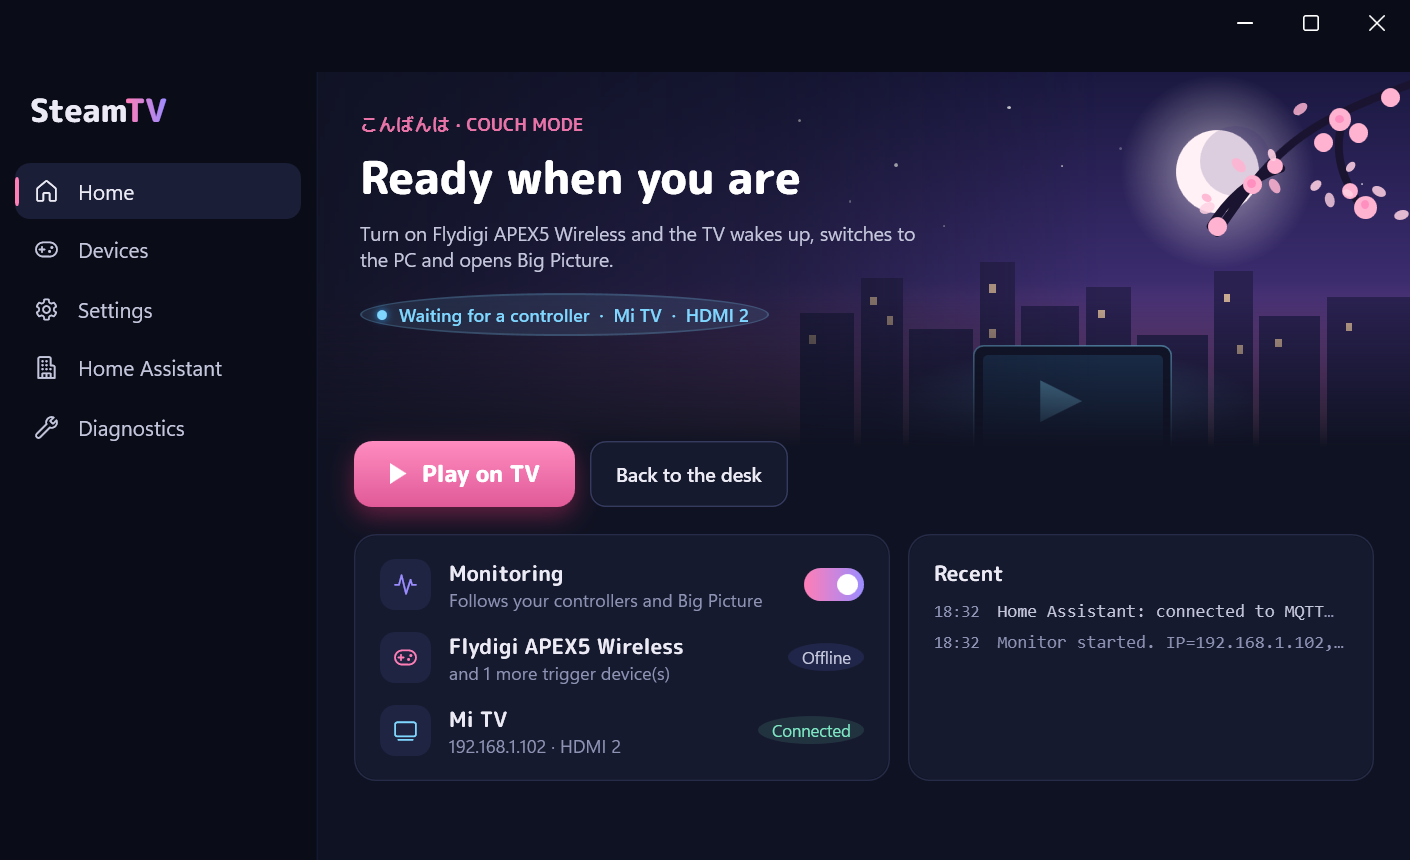
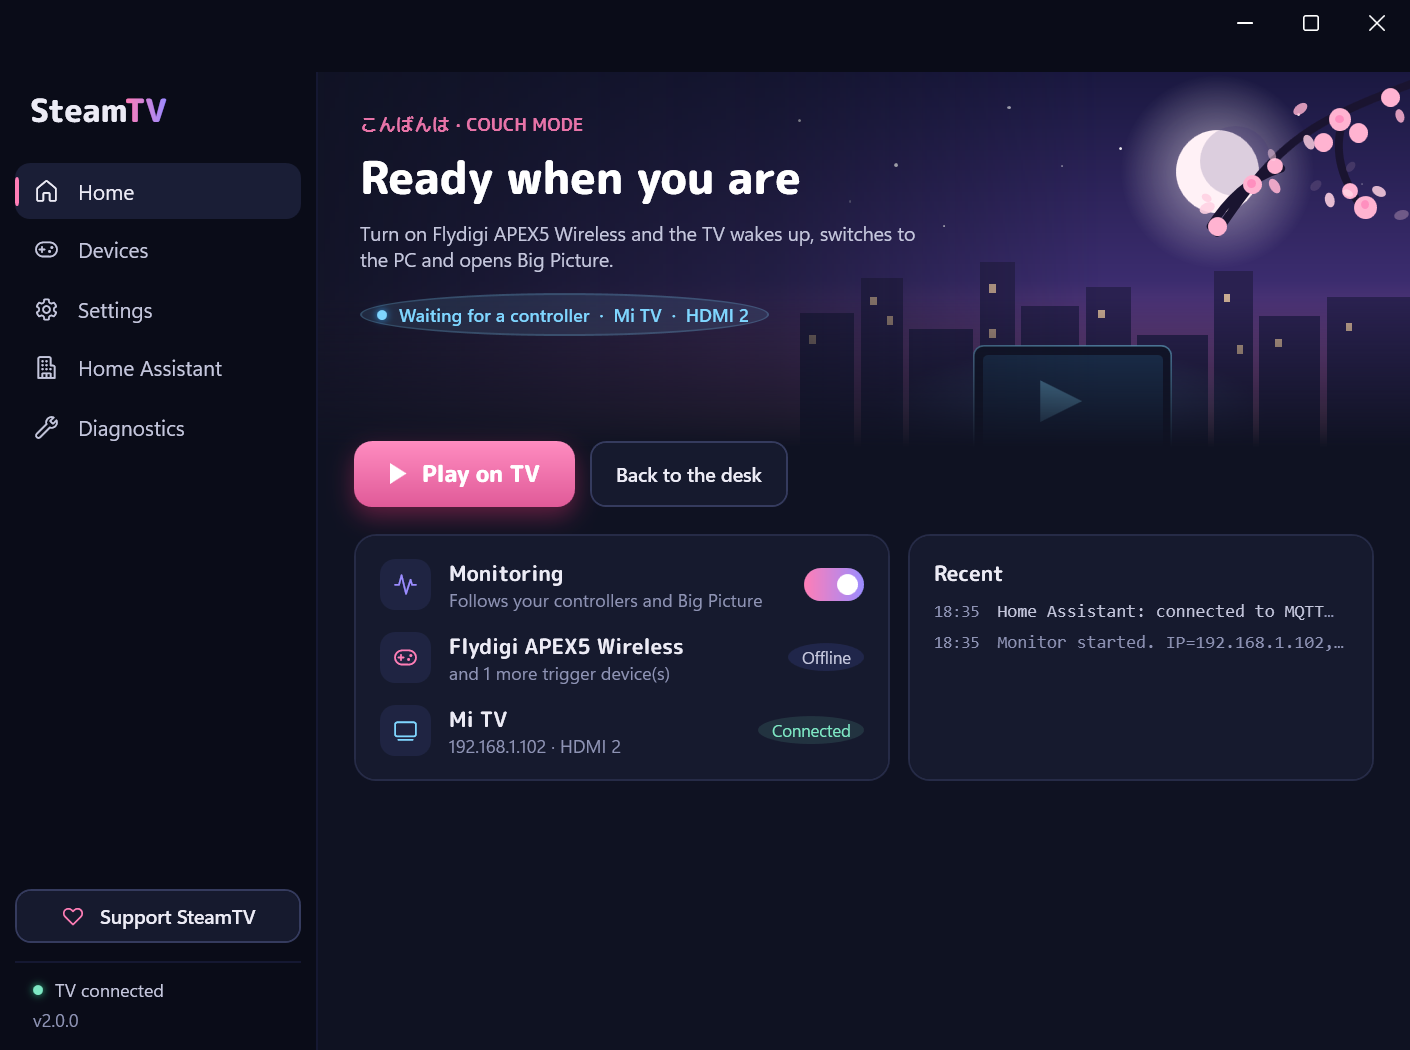
Support SteamTV on Boosty: in-app buttons, GitHub Sponsor button, README

diff --git a/Services/Links.cs b/Services/Links.cs
@@ -5,6 +5,6 @@ namespace SteamTV
     internal static class Links
     {
         public const string Repository = "https://github.com/AirwarQQ/SteamTV";
-        public const string Support = "";
+        public const string Support = "https://boosty.to/airwaruwu/donate";
     }
 }

diff --git a/README.md b/README.md
@@ -4,6 +4,7 @@
 ![Windows 10/11](https://img.shields.io/badge/Windows-10%20%7C%2011-0078D6)
 ![Android TV](https://img.shields.io/badge/TV-Android%20TV-3DDC84)
 [![License](https://img.shields.io/github/license/AirwarQQ/SteamTV)](LICENSE)
+[![Support on Boosty](https://img.shields.io/badge/support-Boosty-FF7EB6)](https://boosty.to/airwaruwu/donate)
 
 **Pick up the controller — the TV is already showing Steam.**
 
@@ -301,5 +302,11 @@ SteamTV/
 │  └─ AppLog.cs             log file in %LOCALAPPDATA%\SteamTV
 └─ Vendor/adb.exe           Android Platform Tools (Apache 2.0, see adb-NOTICE.txt)
 ```
+
+## Support
+
+SteamTV is free and stays free. If it makes your evenings on the couch nicer, you can buy the author a coffee on **[Boosty](https://boosty.to/airwaruwu/donate)** — it's also behind the ♥ button in the app and the tray menu.
+
+---
 
 UI built with [WPF-UI](https://github.com/lepoco/wpfui); headings in [M PLUS Rounded 1c](https://github.com/coz-m/MPLUS_FONTS) (SIL Open Font License, see `Fonts/OFL.txt`). The Home banner is original artwork. SteamTV is licensed under MIT — see [LICENSE](LICENSE).
